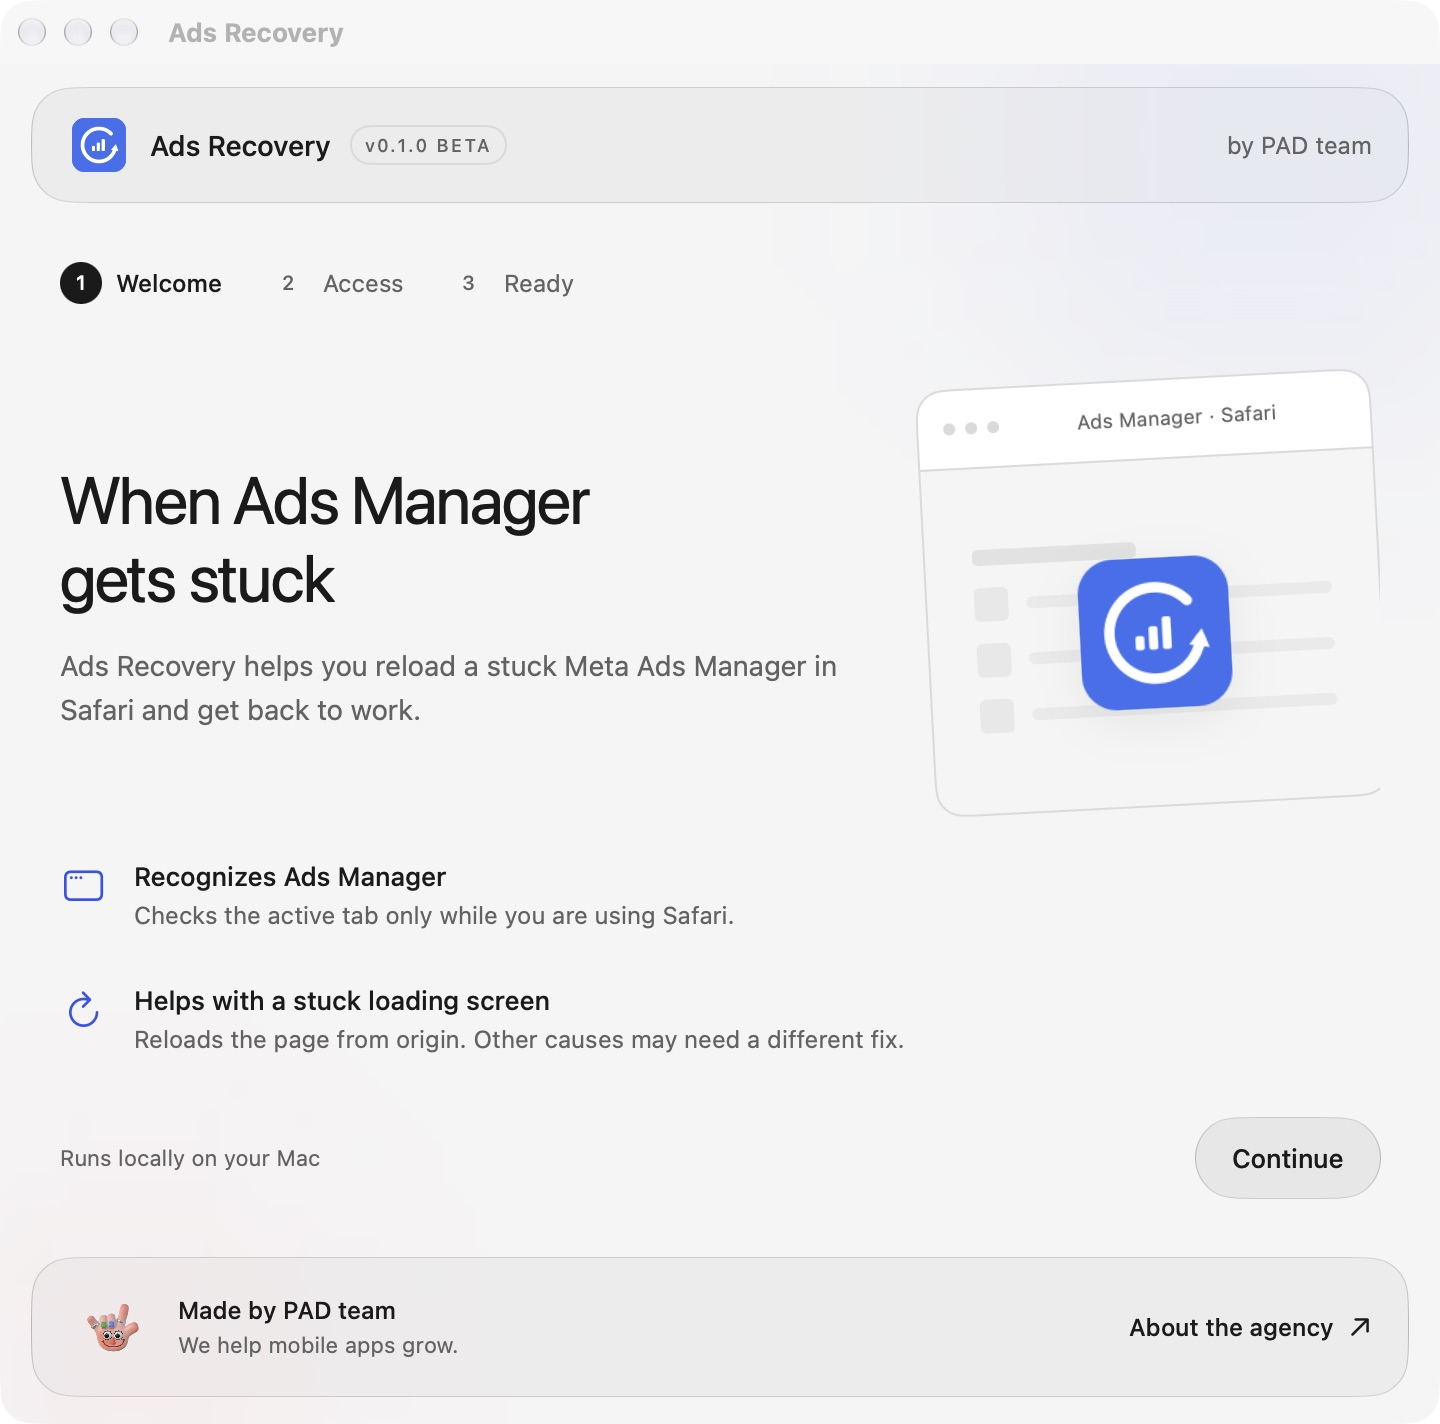
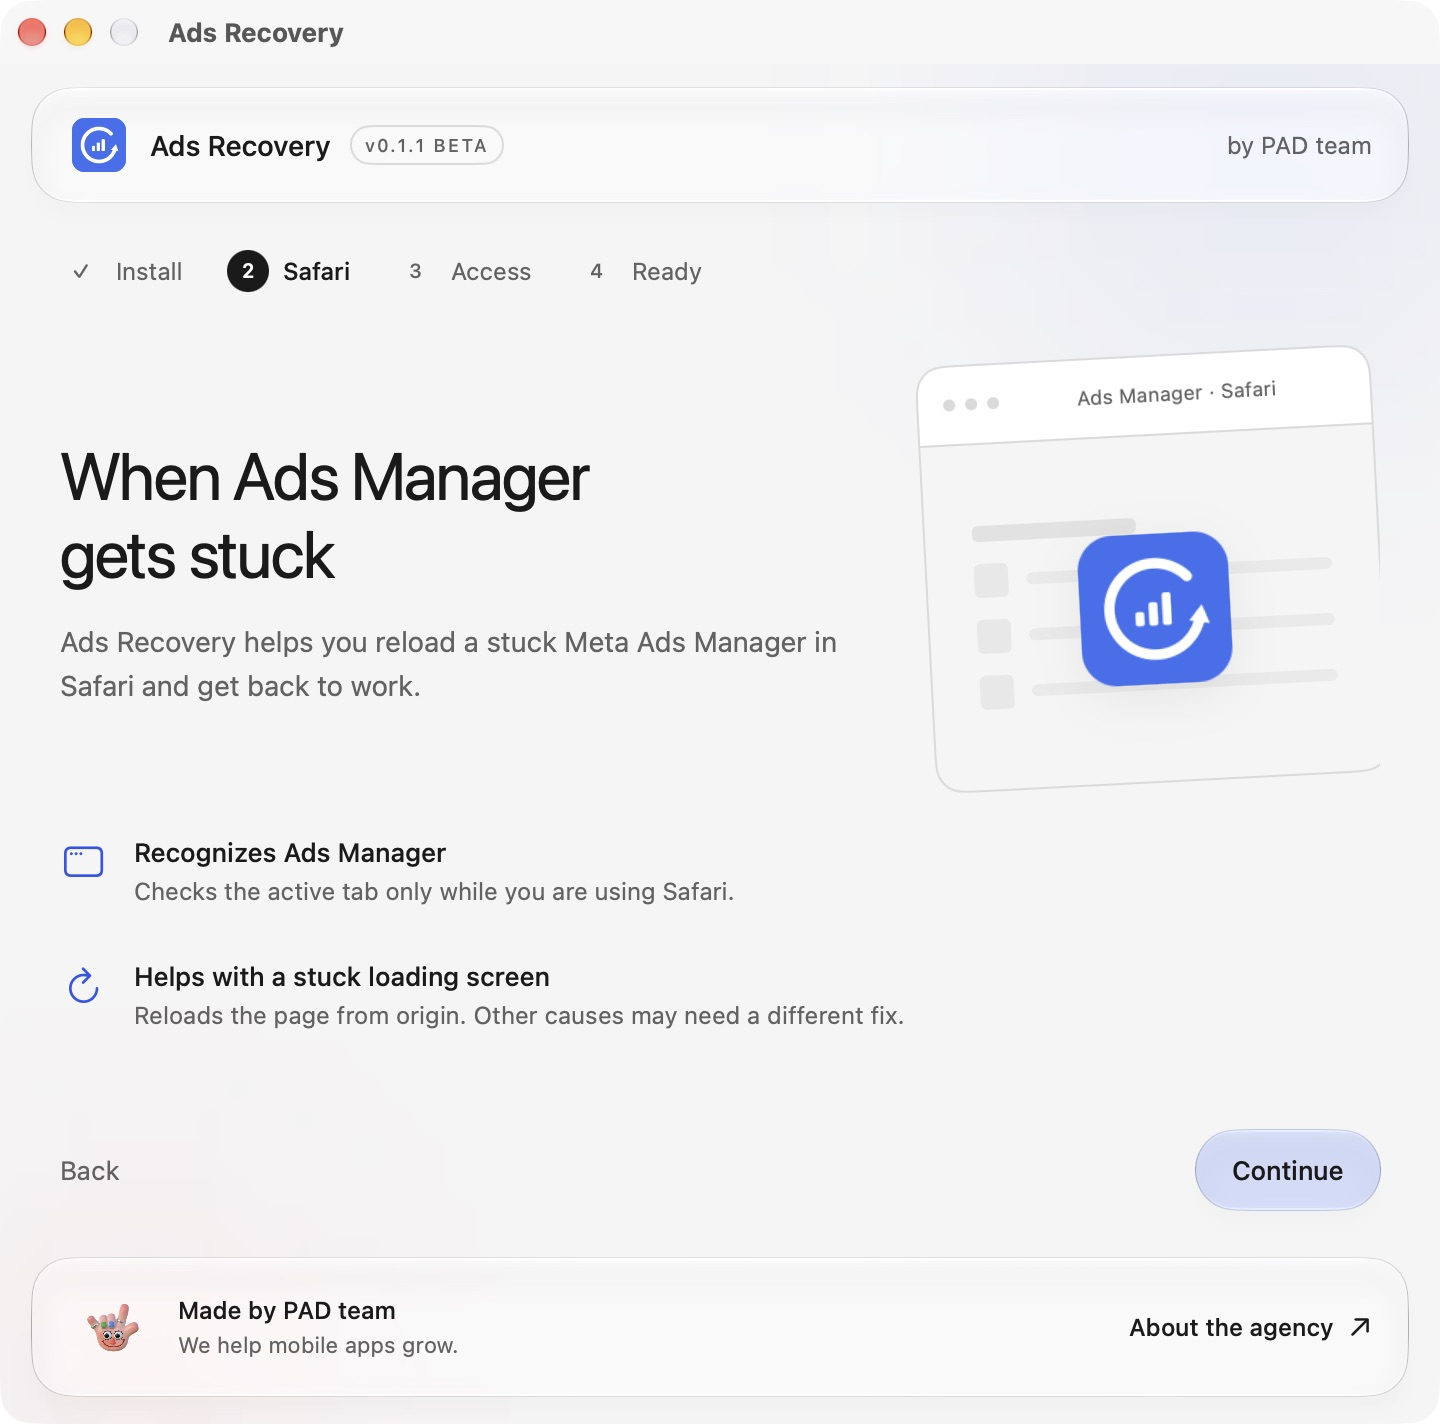
Document 0.1.1 visual installation with verified screenshots

diff --git a/README.md b/README.md
@@ -47,6 +47,8 @@ This is a standalone Mac app, not a Safari extension. It stays in the menu bar a
 
 ## Download and install
 
+![Drag Ads Recovery into Applications](docs/assets/installer.png)
+
 **[Open the installation and first-run guide](docs/POST-INSTALL.md)** for step-by-step help with the download, macOS first-launch warning, Safari access, and your first recovery attempt.
 
 Already installed? Jump to [allowing access](docs/POST-INSTALL.md#allow-access-to-safari) or [fixing an access warning after an update](docs/POST-INSTALL.md#access-is-on-but-the-app-still-asks-for-it).
@@ -102,7 +104,7 @@ Requires macOS and Apple Command Line Tools or Xcode. Use Xcode 26 or newer to i
 bash Scripts/build.sh
 ```
 
-The script runs the detector tests, generates the icons, compiles Apple Silicon and Intel slices, packages `build/Ads Recovery.app`, and produces `build/Ads-Recovery-macOS.dmg` with `build/SHA256SUMS.txt`.
+The script runs the detector tests, generates the icons, compiles Apple Silicon and Intel slices, packages `build/Ads Recovery.app`, and produces `build/Ads-Recovery-macOS.zip` with `build/SHA256SUMS.txt`.
 
 For an Apple Silicon-only development build:
 
@@ -116,7 +118,7 @@ No paid Apple Developer account is required for these builds. The app uses an **
 
 The installer is built with `dmgbuild==1.6.5` and `Scripts/package-dmg.sh`. It includes an Applications shortcut and a visual drag-and-drop guide.
 
-The workflow runs on pushes to `main`, version tags, pull requests, and manual dispatch. It uploads a DMG, ZIP, and checksum to the Actions run. It does not automatically publish a GitHub Release, modify the repository, or require signing secrets. Reviewed releases are published separately with the verified ZIP and checksum. Downloaded-build installation still needs testing on a clean Mac.
+The workflow runs on pushes to `main`, version tags, pull requests, and manual dispatch. It uploads a DMG, ZIP, and checksum to the Actions run. It does not automatically publish a GitHub Release, modify the repository, or require signing secrets. Reviewed releases are published separately with the verified DMG, ZIP, and checksum. Downloaded-build installation still needs testing on a clean Mac.
 
 ## Versions
 

diff --git a/docs/POST-INSTALL.md b/docs/POST-INSTALL.md
@@ -17,6 +17,8 @@ The ZIP download is also available on the release page. If you use it, unpack th
 
 If you open the app from the disk image or Downloads, it shows a visual move guide before requesting permission. Quit that copy, move the app, and reopen it from Applications.
 
+![Drag the app into Applications](assets/installer.png)
+
 ## Open the app
 
 This beta is not notarized by Apple, so macOS may stop it from opening the first time.
@@ -34,7 +36,7 @@ Do not turn off Gatekeeper for the whole Mac. If macOS reports malware or a dama
 
 This is a broad macOS permission to read and control interfaces. Ads Recovery's code limits its checks to the active Safari window and supported Ads Manager pages. It needs this permission to recognize the loading screen and request a reload.
 
-![Ads Recovery welcome screen](assets/onboarding.png)
+![Ads Recovery permission setup](assets/permissions.png)
 
 ## Try your first recovery
 
